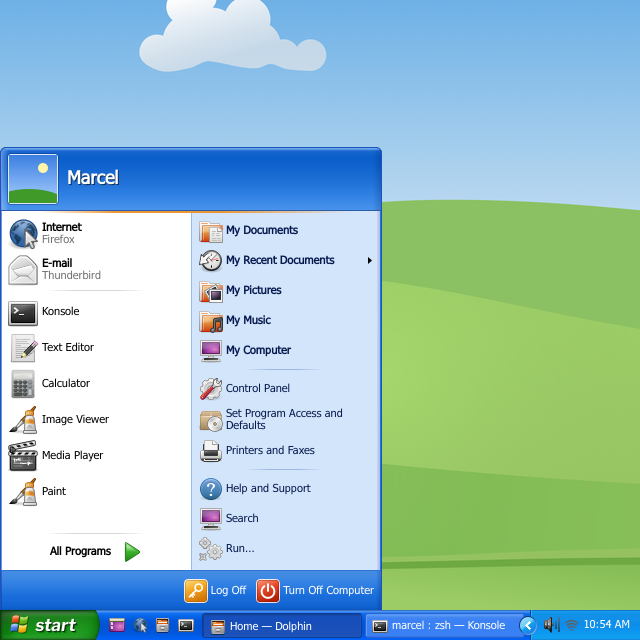
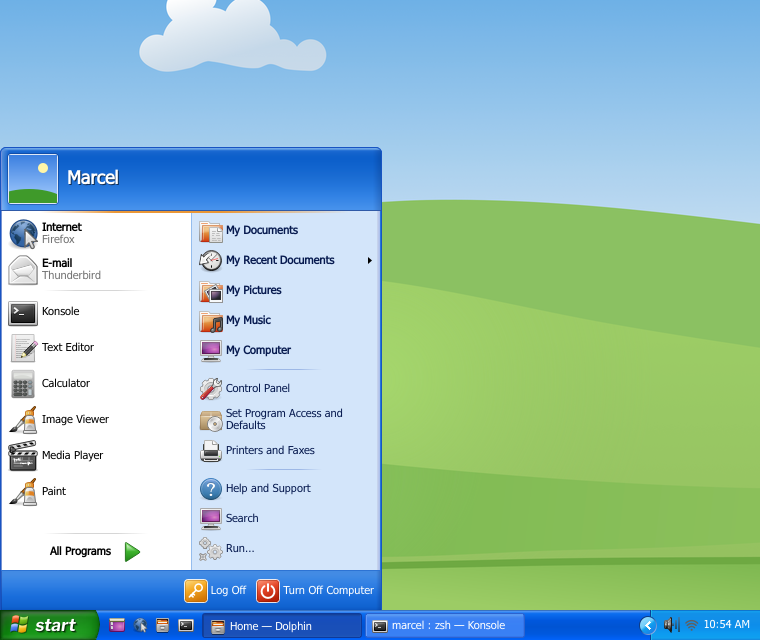
Quick Launch » in XP's light blue; wider README screenshot
The » is light blue like XP's (white under the pointer) and back to
13 px. The start menu screenshot is 760 px wide so the notification area
no longer overlaps the task buttons; Global Theme previews refreshed.

Claude-Session: https://claude.ai/code/session_01PfMQm1A3gEqM17TJU2qVLD

diff --git a/home/.local/share/plasma/plasmoids/com.github.marpogaus.winxpquicklaunch/contents/ui/main.qml b/home/.local/share/plasma/plasmoids/com.github.marpogaus.winxpquicklaunch/contents/ui/main.qml
@@ -240,7 +240,7 @@ PlasmoidItem {
             // taskbar; it only looks like a button under the pointer
             Item {
                 visible: root.overflow
-                width: 16
+                width: 13
                 height: root.cell
 
                 Rectangle {
@@ -261,7 +261,8 @@ PlasmoidItem {
                         font.family: "Tahoma"
                         font.pixelSize: 11
                         font.bold: true
-                        color: "#ffffff"
+                        // XP's » is light blue, white under the pointer
+                        color: overflowMouse.containsMouse ? "#ffffff" : "#70acff"
                     }
                     MouseArea {
                         id: overflowMouse
